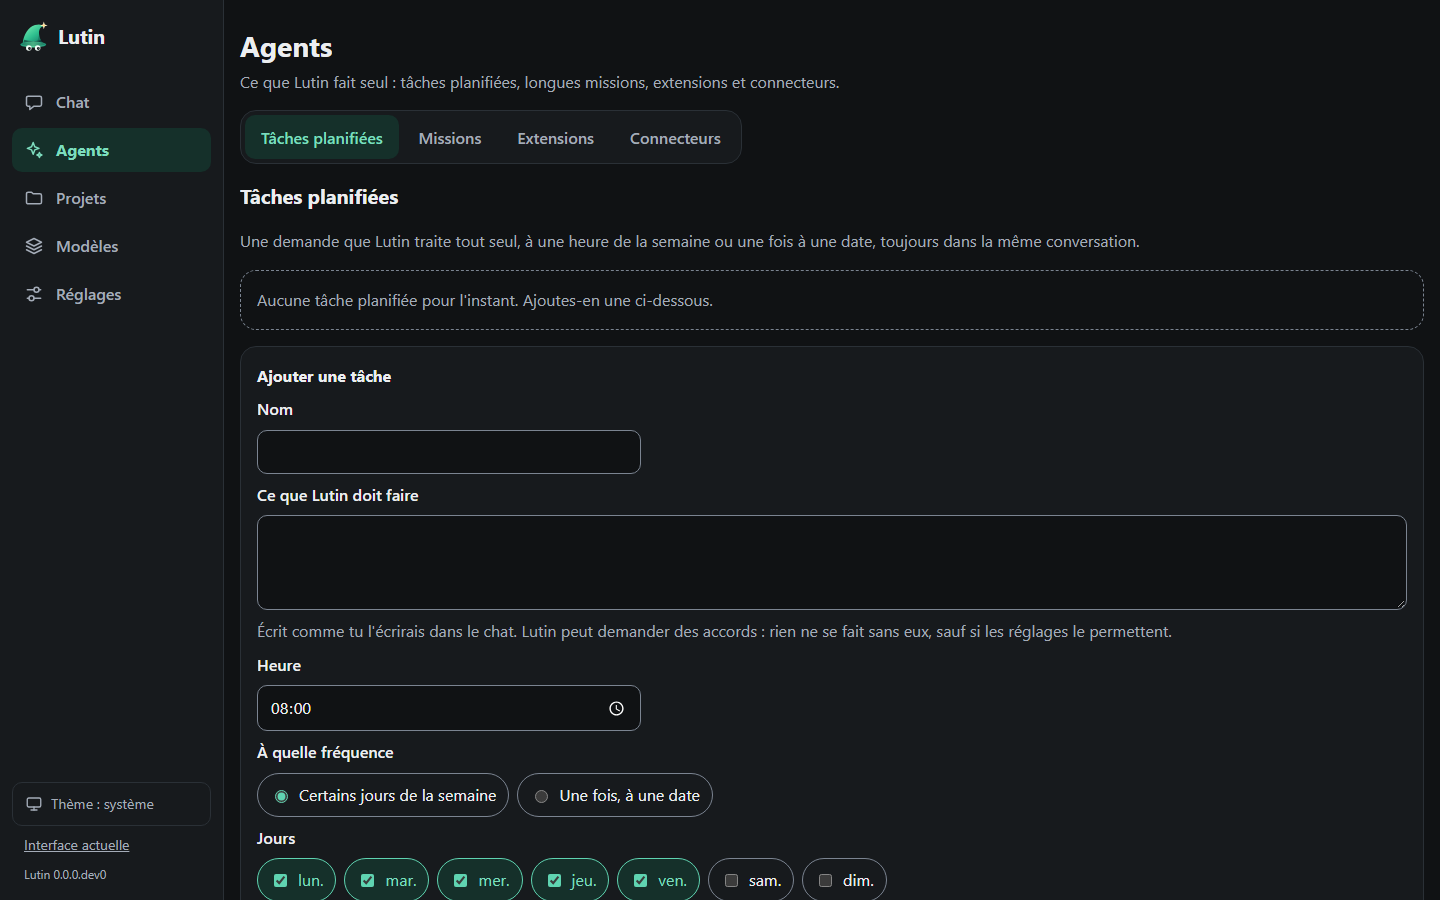
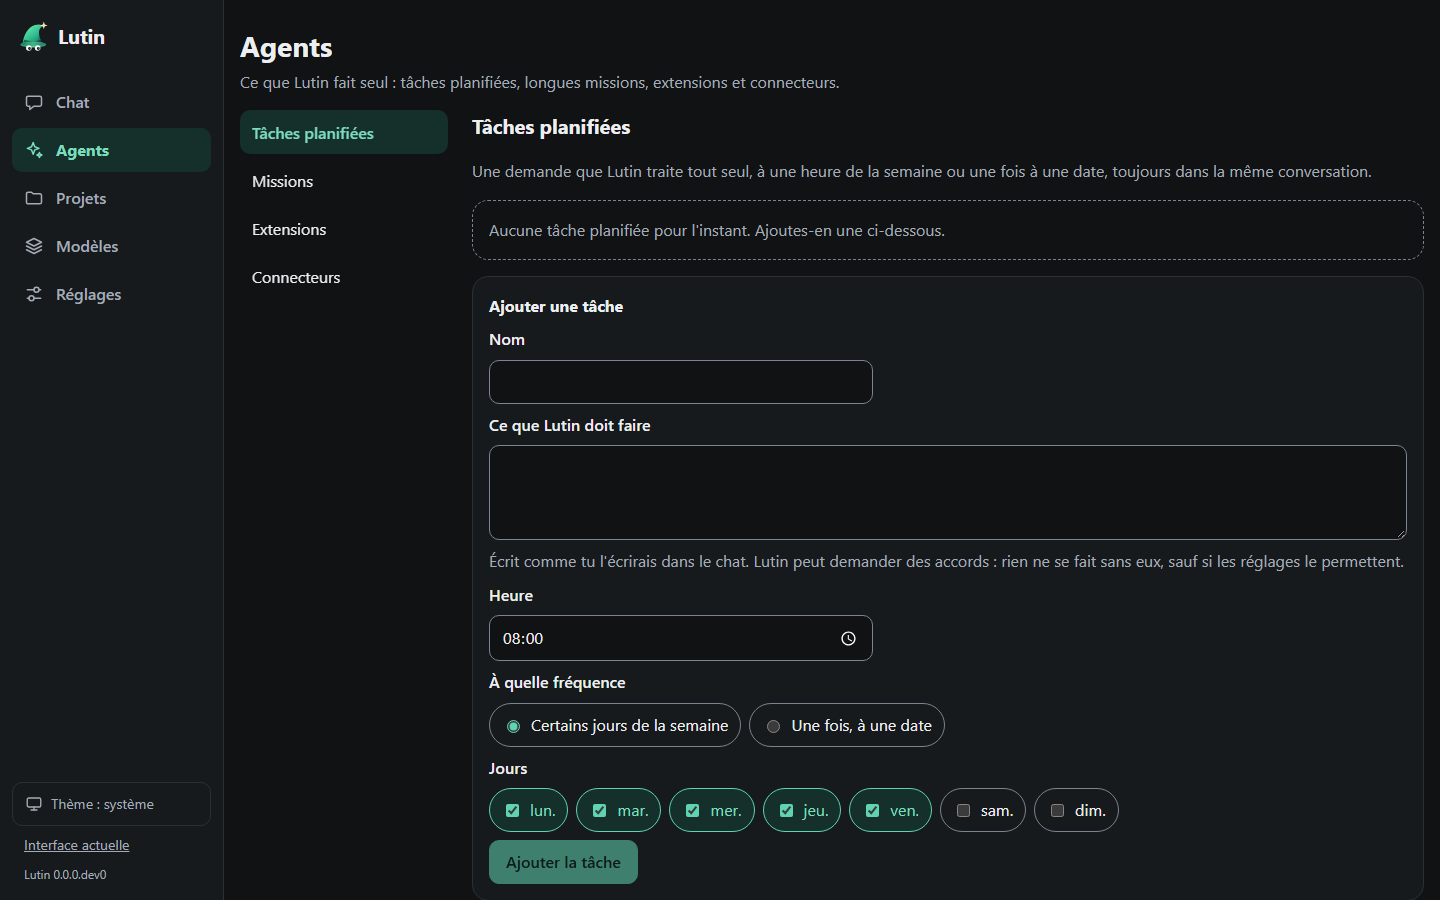
docs: the screenshots and texts of the README follow the last screens
Agents is now laid out as Settings and Models has a Catalogue tab: the
two screenshots are taken again by tools/captures.py and the README
says what they show, in English and in French.

diff --git a/README.fr.md b/README.fr.md
@@ -46,10 +46,10 @@ ligne de commande.
 Cinq espaces : **Chat**, **Agents**, **Projets**, **Modèles** et **Réglages**, pensés pour un téléphone tenu droit comme pour un écran de 2560 pixels.
 
 <p align="center">
-  <img src="assets/capture-app-models.fr.png" alt="L'écran Modèles : les modèles installés en grille, celui en service, et les onglets Recommandés, Installés, Moteurs et Machines" width="94%">
+  <img src="assets/capture-app-models.fr.png" alt="L'écran Modèles : les modèles installés en grille, celui en service, et les onglets Recommandés, Catalogue, Installés, Moteurs et Machines" width="94%">
 </p>
 
-**Modèles** : ce qui est installé et ce qui convient à ta machine, les moteurs, et l'onglet **Machines** : les autres ordinateurs appairés, leur
+**Modèles** : un guide qui recommande un modèle selon ce que tu veux faire, tout le **catalogue** (à quoi sert chaque modèle, comment il tient sur ta machine, ce qu'il fait bien ou moins bien), ce qui est installé, les moteurs, et l'onglet **Machines** : les autres ordinateurs appairés, leur
 état, leur séquence de réveil et les droits qu'ils accordent.
 
 <p align="center">
@@ -60,10 +60,10 @@ Cinq espaces : **Chat**, **Agents**, **Projets**, **Modèles** et **Réglages**,
 **Prêter cette machine** s'y trouve aussi : prêter son moteur, donner un code d'appairage, répondre aux droits que demandent les autres machines.
 
 <p align="center">
-  <img src="assets/capture-app-agents.fr.png" alt="L'écran Agents : les onglets Tâches planifiées, Missions, Extensions et Connecteurs" width="94%">
+  <img src="assets/capture-app-agents.fr.png" alt="L'écran Agents : un menu de parties à gauche, les tâches planifiées à droite" width="94%">
 </p>
 
-**Agents** : tâches planifiées, missions, extensions et connecteurs, chacun dans son onglet.
+**Agents** : tâches planifiées, missions, extensions et connecteurs, rangés comme les Réglages : une partie à la fois.
 
 ## Plusieurs ordinateurs, un seul assistant
 

diff --git a/README.md b/README.md
@@ -45,10 +45,10 @@ folder you choose, **always with your approval**. In English and French, from th
 Five areas: **Chat**, **Agents**, **Projects**, **Models** and **Settings**, laid out for a phone held upright as well as for a 2560-pixel screen.
 
 <p align="center">
-  <img src="assets/capture-app-models.png" alt="The Models screen: the installed models in a grid, the one in use, and the tabs Recommended, Installed, Engines and Machines" width="94%">
+  <img src="assets/capture-app-models.png" alt="The Models screen: the installed models in a grid, the one in use, and the tabs Recommended, Catalogue, Installed, Engines and Machines" width="94%">
 </p>
 
-**Models**: what is installed and what fits your machine, the engines, and the **Machines** tab: the other computers you paired, their state, their
+**Models**: a guide that recommends a model for what you want to do, the whole **catalogue** (what each model is for, how it fits your machine, what it is good and less good at), what is installed, the engines, and the **Machines** tab: the other computers you paired, their state, their
 wake-up sequence, and the rights they grant.
 
 <p align="center">
@@ -59,10 +59,10 @@ wake-up sequence, and the rights they grant.
 machine** is there too: lend its engine, give a pairing code, answer the rights other machines ask for.
 
 <p align="center">
-  <img src="assets/capture-app-agents.png" alt="The Agents screen: the tabs Scheduled tasks, Missions, Add-ons and Connectors" width="94%">
+  <img src="assets/capture-app-agents.png" alt="The Agents screen: a menu of parts on the left, the scheduled tasks on the right" width="94%">
 </p>
 
-**Agents**: scheduled tasks, missions, add-ons and connectors, each in its tab.
+**Agents**: scheduled tasks, missions, add-ons and connectors, laid out as Settings: one part at a time.
 
 ## Several computers, one assistant
 
